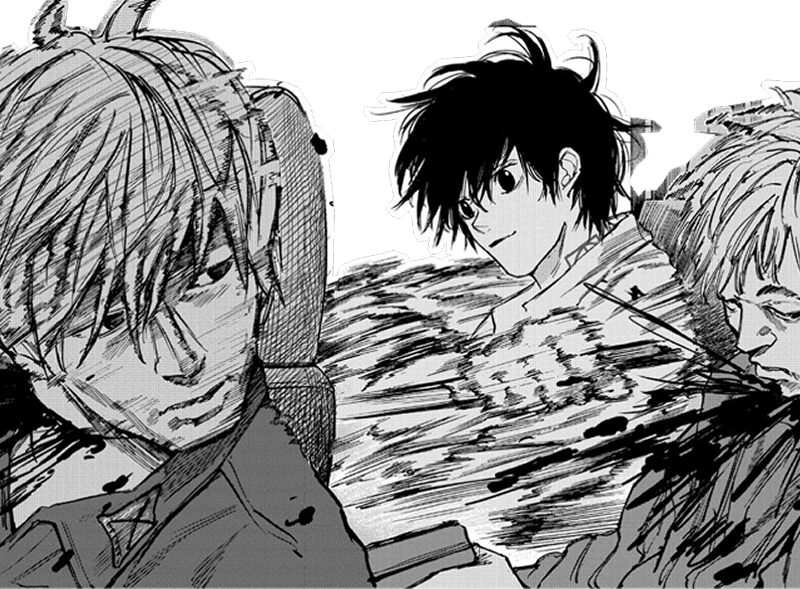
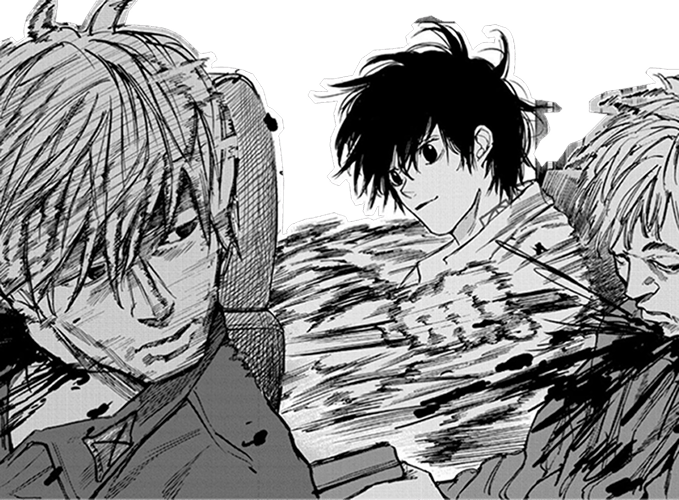
이미지 최적화

Changed region(s): [[0.0619, 0.75, 0.0928, 0.78]]

diff --git a/src/components/home/nagumoTMI/NagumoTMI.jsx b/src/components/home/nagumoTMI/NagumoTMI.jsx
@@ -1,10 +1,10 @@
-import { useRef, useState } from 'react'
-import Dice from './Dice'
-import nagumo from '@img/home/nagumoTMI/rolling_dice_nagumo.png'
-import styles from './NagumoTMI.module.scss'
+import { useRef, useState } from "react";
+import Dice from "./Dice";
+import nagumo from "@img/home/nagumoTMI/rolling_dice_nagumo.jpg";
+import styles from "./NagumoTMI.module.scss";
 import useIsMobile from "@utils/useIsMobile";
-import classNames from 'classnames';
-import { Tmi } from './Tmi';
+import classNames from "classnames";
+import { Tmi } from "./Tmi";
 
 const NagumoTMI = () => {
   const diceRef = useRef();
@@ -15,16 +15,20 @@ const NagumoTMI = () => {
     diceRef.current?.roll();
 
     const randomIndex = Math.floor(Math.random() * Tmi.length);
-    setTimeout(()=> {
+    setTimeout(() => {
       setTmiMessage(Tmi[randomIndex]);
-    }, 1100)
+    }, 1100);
   };
 
   return (
-    <div className={classNames(styles.nagumoTMIContainer, !isMobile && styles.pc)}>
+    <div
+      className={classNames(styles.nagumoTMIContainer, !isMobile && styles.pc)}
+    >
       <div className={styles.title}>Nagumo's TMI</div>
-      <p className={styles.desc}>주사위를 굴리면 나구모의 TMI가 랜덤으로 나옵니다.</p>
-      
+      <p className={styles.desc}>
+        주사위를 굴리면 나구모의 TMI가 랜덤으로 나옵니다.
+      </p>
+
       <div className={styles.nagumoTMIBox}>
         <div className={styles.nagumoDiceWrap}>
           <img src={nagumo} className={styles.img} />
@@ -35,15 +39,19 @@ const NagumoTMI = () => {
             <p>나구모는요...</p>
             <p>{tmiMessage}</p>
           </div>
-          <button type='button' className={styles.rollingBtn} onClick={handleRoll}>
+          <button
+            type="button"
+            className={styles.rollingBtn}
+            onClick={handleRoll}
+          >
             주사위
-            {isMobile ? <br /> : ' '}
+            {isMobile ? <br /> : " "}
             굴리기!
           </button>
         </div>
       </div>
     </div>
-  )
-}
+  );
+};
 
-export default NagumoTMI
+export default NagumoTMI;
